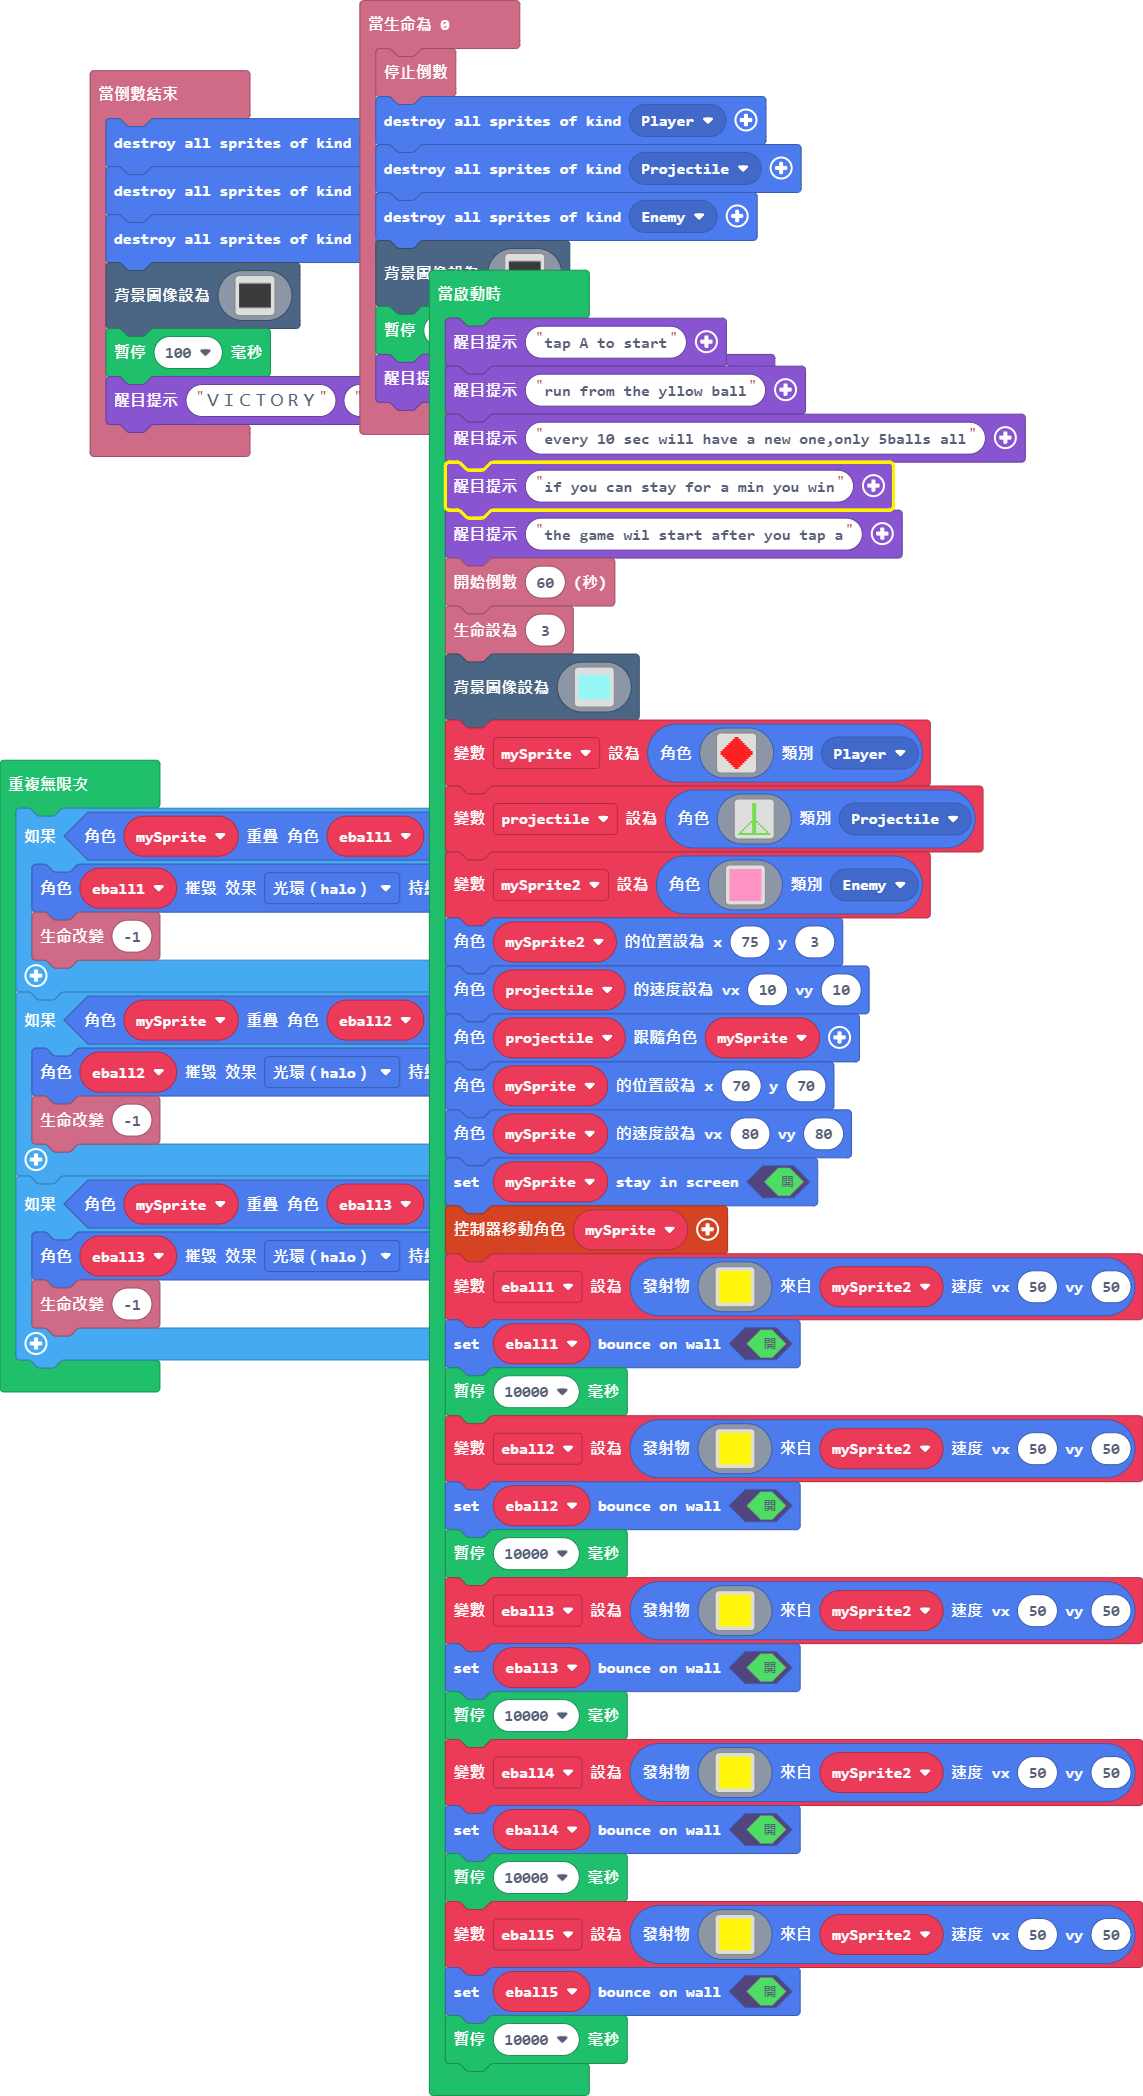
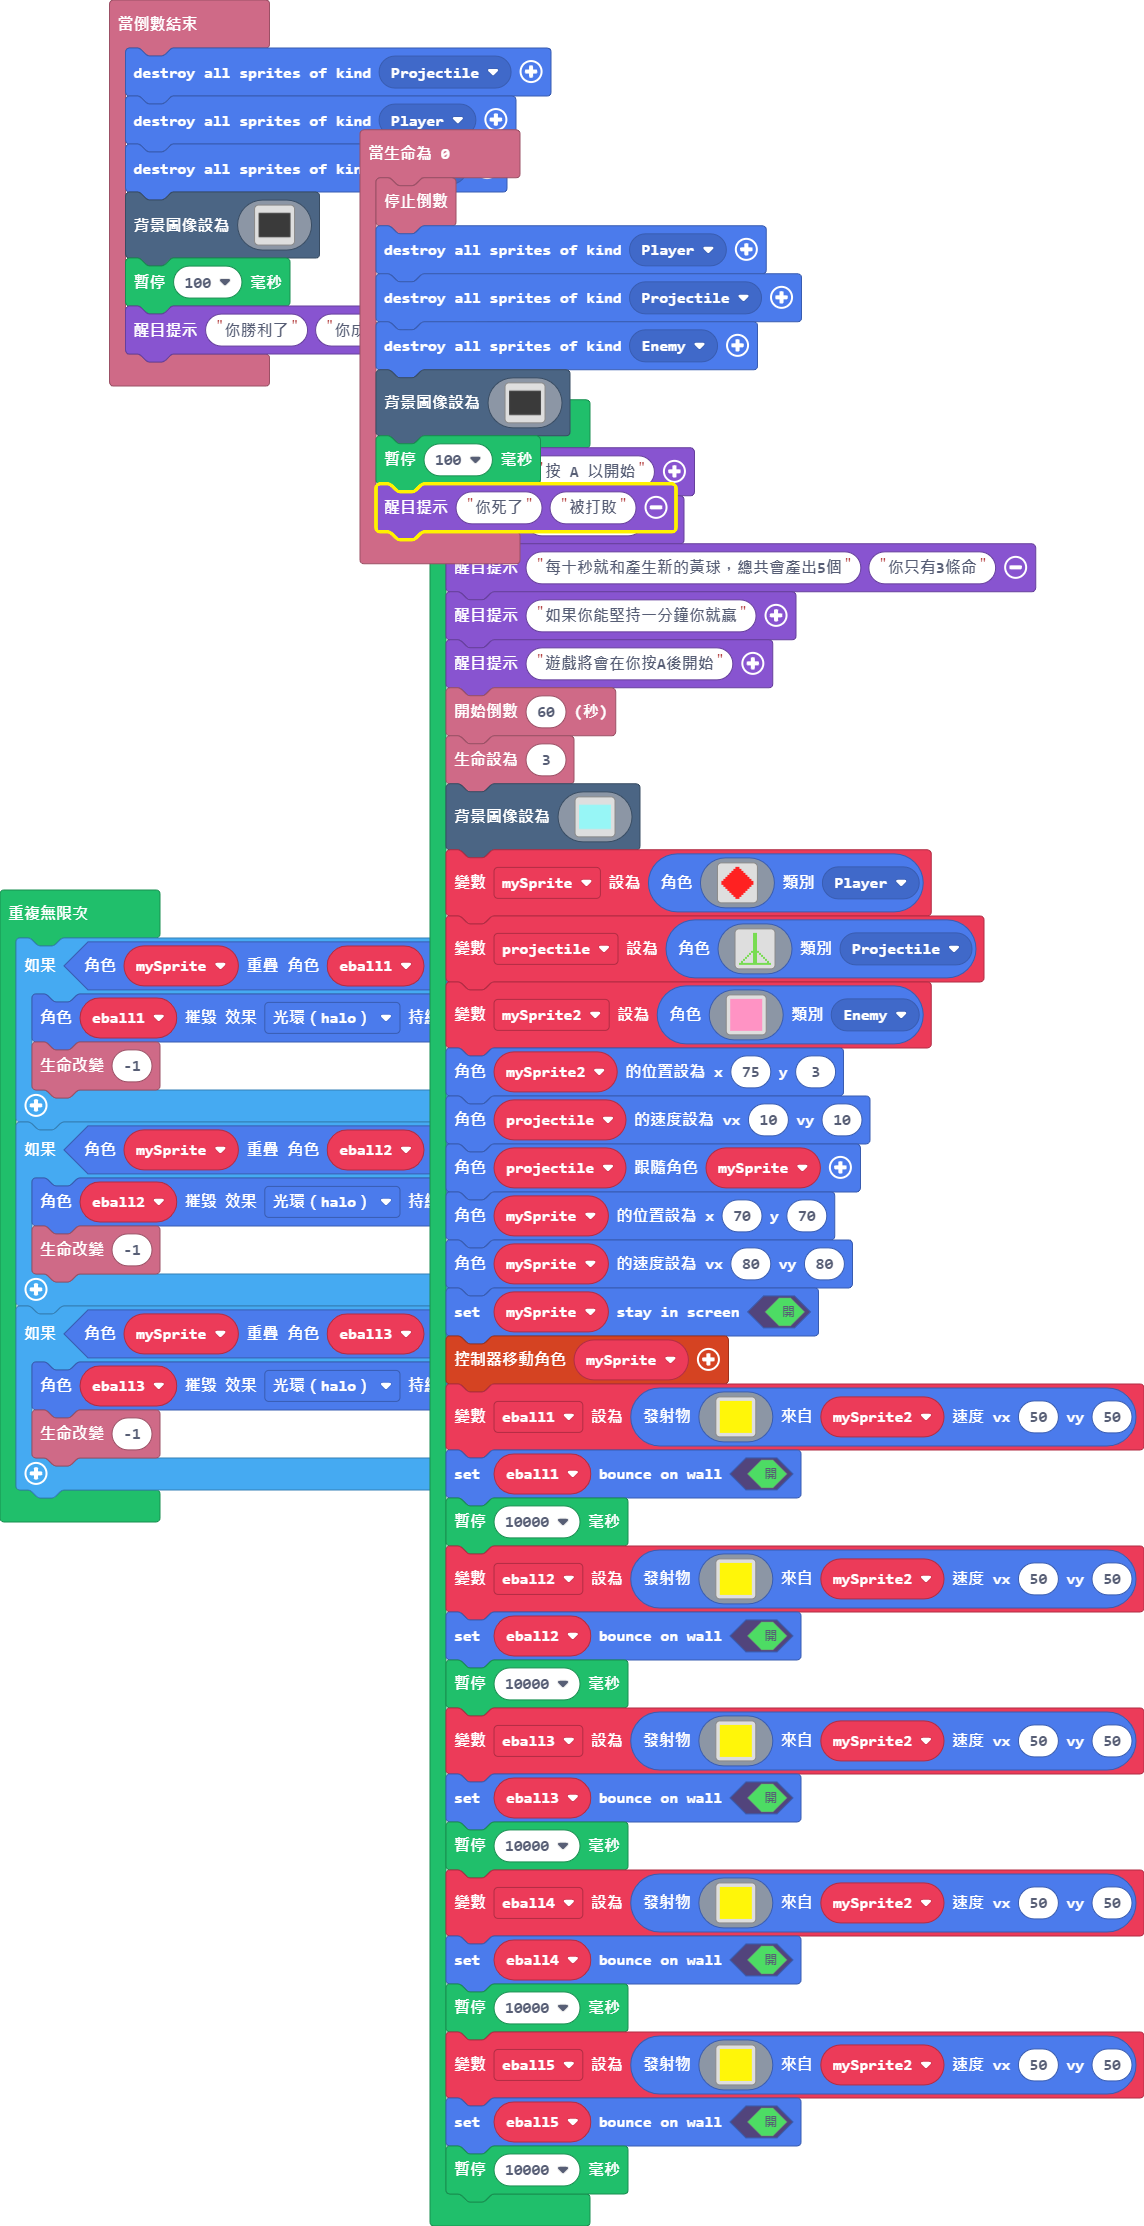
eng to chi

diff --git a/main.ts b/main.ts
@@ -128,7 +128,7 @@ info.onCountdownEnd(function () {
         ffffffffffffffffffffffffffffffffffffffffffffffffffffffffffffffffffffffffffffffffffffffffffffffffffffffffffffffffffffffffffffffffffffffffffffffffffffffffffffffff
         `)
     pause(100)
-    game.splash("ＶＩＣＴＯＲＹ", "Ｔｈｅ　ｓｈｏｕｔｅｒ　ｅｘｐｌｏｄｅｄ")
+    game.splash("你勝利了", "你成功躲避了1分鐘")
 })
 info.onLifeZero(function () {
     info.stopCountdown()
@@ -258,13 +258,13 @@ info.onLifeZero(function () {
         ffffffffffffffffffffffffffffffffffffffffffffffffffffffffffffffffffffffffffffffffffffffffffffffffffffffffffffffffffffffffffffffffffffffffffffffffffffffffffffffff
         `)
     pause(100)
-    game.splash("YOU　ＤＩＥＤ", "ＤＥＡＦＥＴ")
+    game.splash("你死了", "被打敗")
 })
-game.splash("tap A to start")
-game.splash("run from the yllow ball")
-game.splash("every 10 sec will have a new one,only 5balls all")
-game.splash("if you can stay for a min you win")
-game.splash("the game wil start after you tap a")
+game.splash("按 A 以開始")
+game.splash("躲避黃色球")
+game.splash("每十秒就和產生新的黃球，總共會產出5個", "你只有3條命")
+game.splash("如果你能堅持一分鐘你就贏")
+game.splash("遊戲將會在你按A後開始")
 info.startCountdown(60)
 info.setLife(3)
 scene.setBackgroundImage(img`
